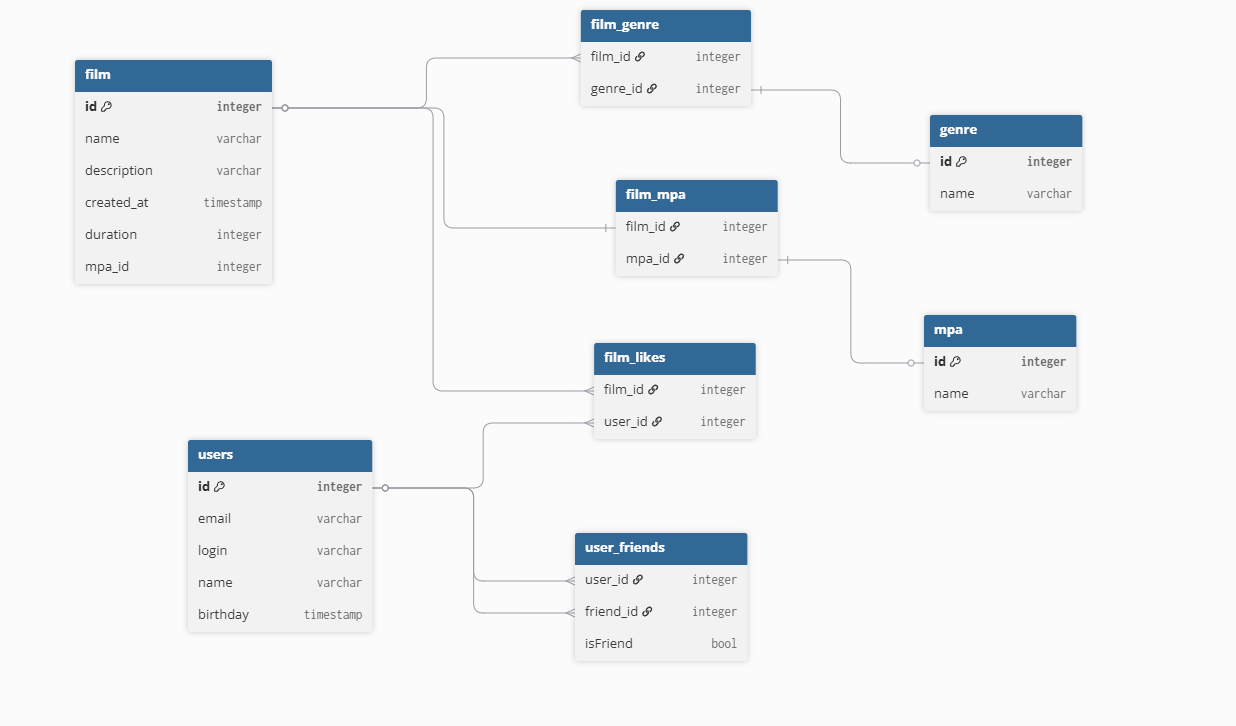
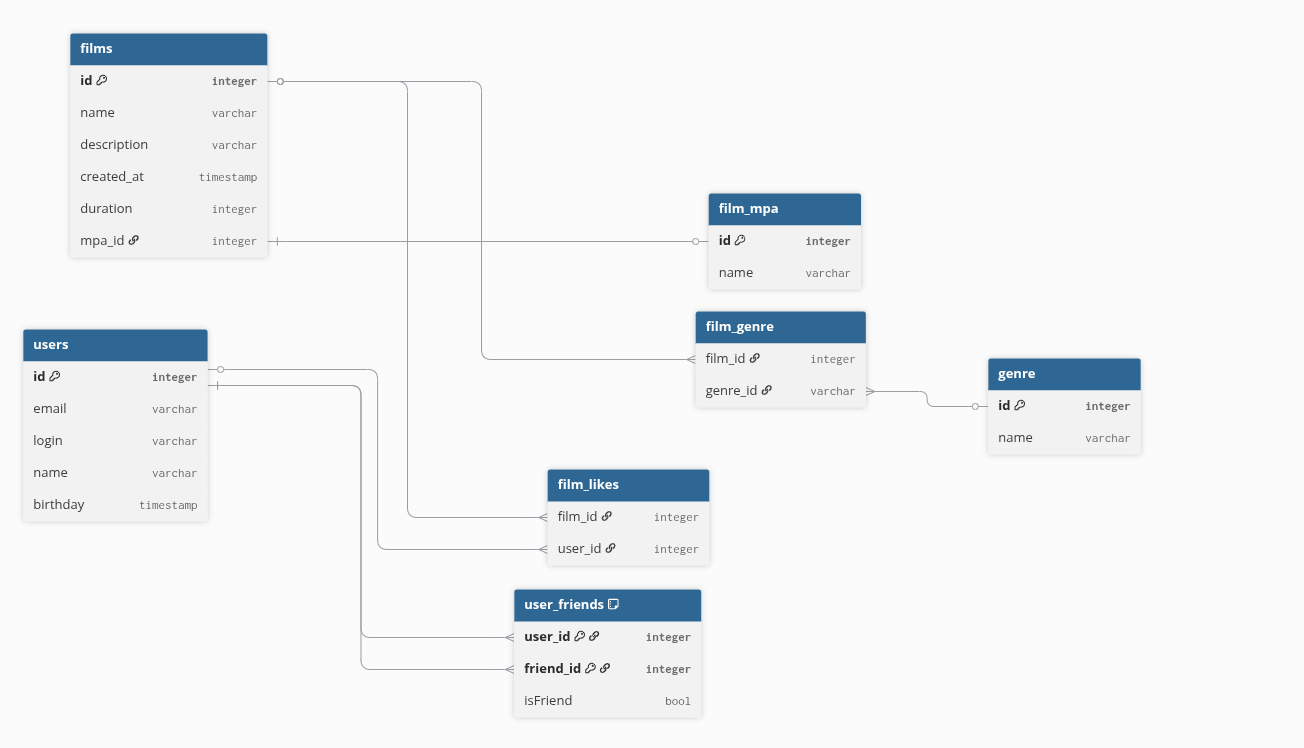
заполнил схему, начальные данные, поправил ранние изменения

diff --git a/src/main/java/ru/yandex/practicum/filmorate/model/Genre.java b/src/main/java/ru/yandex/practicum/filmorate/model/Genre.java
@@ -4,7 +4,6 @@ import jakarta.validation.constraints.NotNull;
 import lombok.AllArgsConstructor;
 import lombok.Data;
 import lombok.NoArgsConstructor;
-import ru.yandex.practicum.filmorate.enums.Genres;
 
 @Data
 @NoArgsConstructor
@@ -13,6 +12,6 @@ public class Genre {
     @NotNull
     private Integer id;
     @NotNull
-    private Genres name;
+    private String name;
 
 }

diff --git a/src/main/java/ru/yandex/practicum/filmorate/model/Mpa.java b/src/main/java/ru/yandex/practicum/filmorate/model/Mpa.java
@@ -6,7 +6,6 @@ import jakarta.validation.constraints.Positive;
 import lombok.AllArgsConstructor;
 import lombok.Data;
 import lombok.NoArgsConstructor;
-import ru.yandex.practicum.filmorate.enums.Mpas;
 
 @Data
 @NoArgsConstructor
@@ -18,6 +17,6 @@ public class Mpa {
 
     @NotNull
     @NotBlank
-    private Mpas name;
+    private String name;
 
 }
